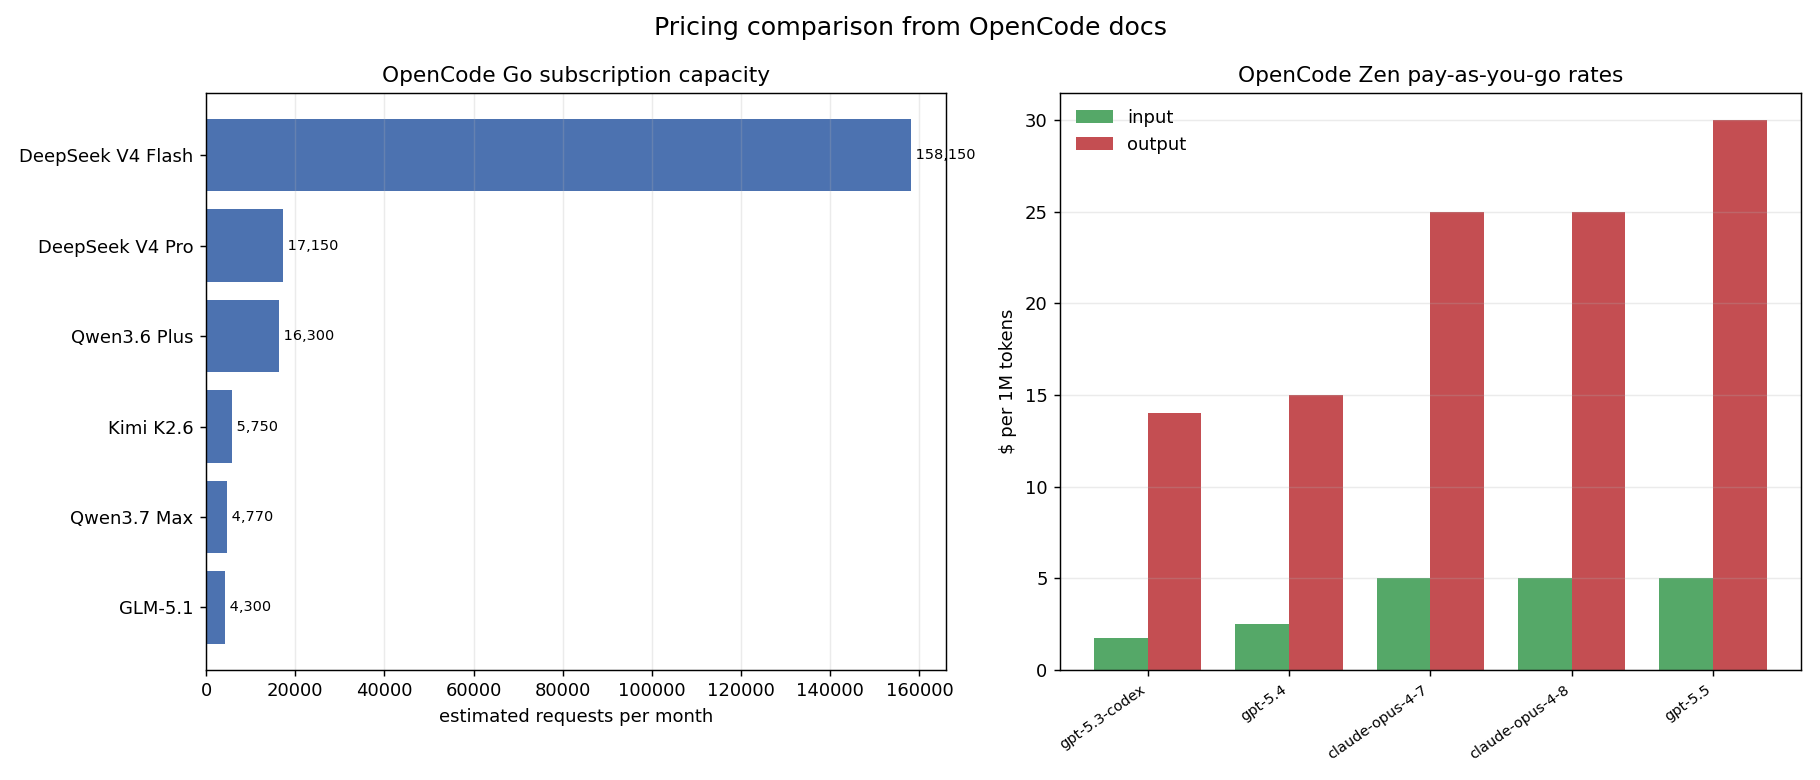
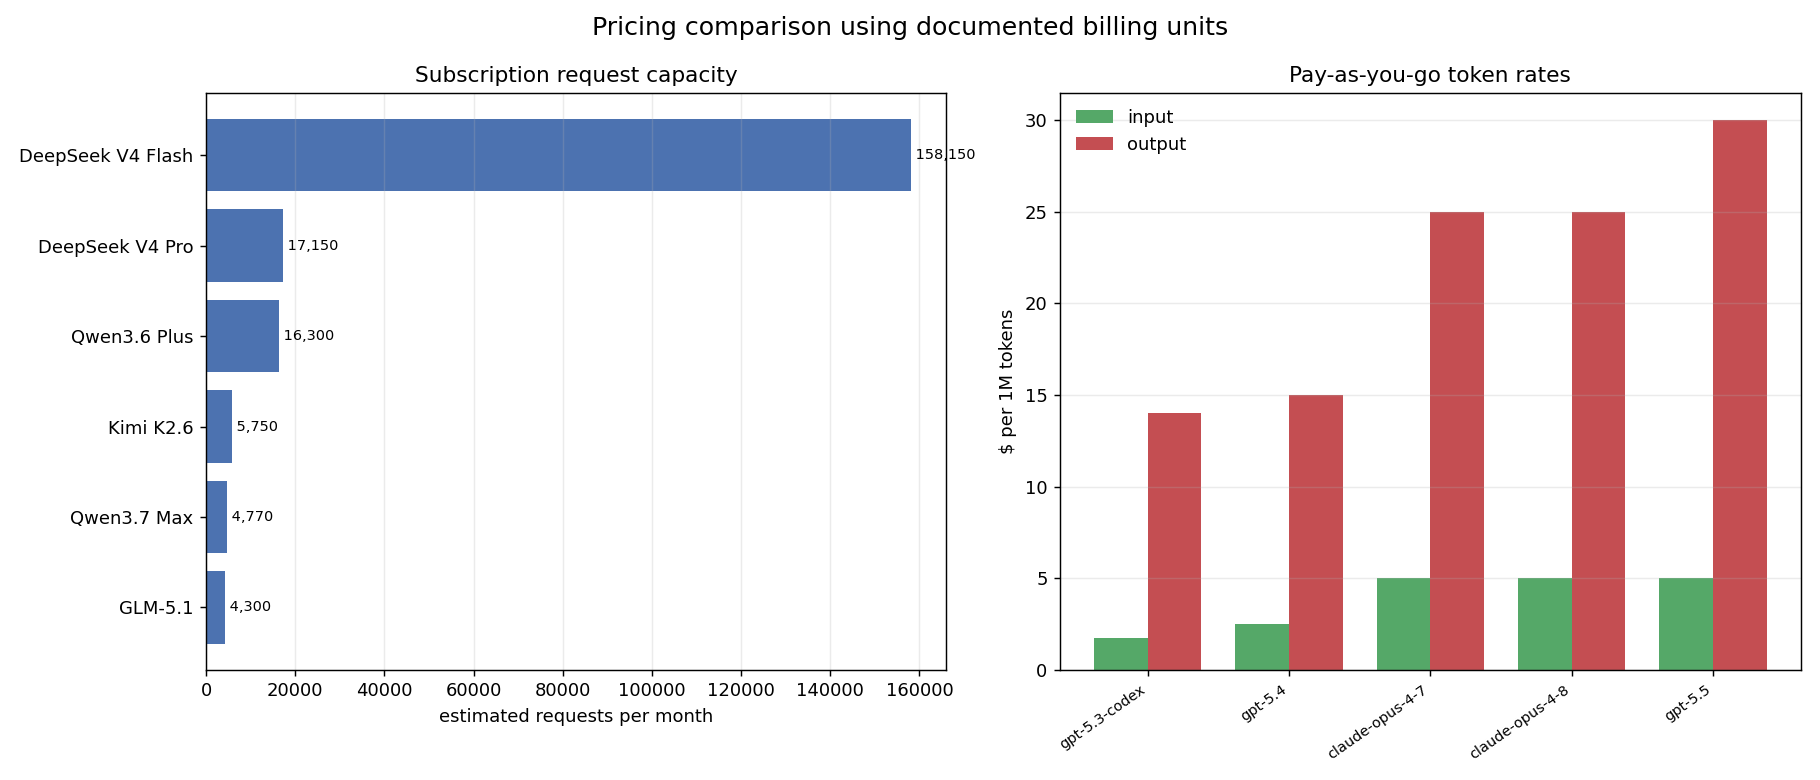
Generalize pricing figure labels

Changed region(s): [[0.3385, 0.0, 0.6769, 0.0615], [0.6769, 0.0615, 0.8923, 0.1231], [0.2154, 0.0923, 0.4308, 0.1231]]

diff --git a/scripts/build_pricing_figure.py b/scripts/build_pricing_figure.py
@@ -1,9 +1,9 @@
 """Build the pricing comparison figure used by reports/main.md.
 
-The values are copied from the OpenCode Go and Zen docs on 2026-05-30.
-Go uses a subscription quota, so the figure reports estimated monthly requests
-inside the documented $60 monthly usage limit. Zen uses pay-as-you-go token
-pricing, so the figure reports input and output dollars per 1M tokens.
+The values are copied from the OpenCode pricing docs on 2026-05-30.
+The figure labels the billing units, not the product routes: one side uses
+estimated monthly requests inside the documented $60 subscription usage limit,
+and the other uses pay-as-you-go input/output dollars per 1M tokens.
 """
 
 from __future__ import annotations
@@ -18,7 +18,7 @@ import matplotlib.pyplot as plt  # noqa: E402
 ROOT = Path(__file__).resolve().parent.parent
 OUT = ROOT / "reports" / "fig_pricing.png"
 
-GO_MONTHLY_REQUESTS = {
+MONTHLY_REQUESTS = {
     "DeepSeek V4 Flash": 158_150,
     "DeepSeek V4 Pro": 17_150,
     "GLM-5.1": 4_300,
@@ -27,7 +27,7 @@ GO_MONTHLY_REQUESTS = {
     "Qwen3.7 Max": 4_770,
 }
 
-ZEN_TOKEN_PRICES = {
+TOKEN_PRICES = {
     "gpt-5.3-codex": (1.75, 14.00),
     "gpt-5.4": (2.50, 15.00),
     "gpt-5.5": (5.00, 30.00),
@@ -37,34 +37,34 @@ ZEN_TOKEN_PRICES = {
 
 
 def main() -> None:
-    fig, (ax_go, ax_zen) = plt.subplots(1, 2, figsize=(14, 6))
+    fig, (ax_requests, ax_tokens) = plt.subplots(1, 2, figsize=(14, 6))
 
-    go_items = sorted(GO_MONTHLY_REQUESTS.items(), key=lambda item: item[1])
-    go_names = [name for name, _ in go_items]
-    go_vals = [value for _, value in go_items]
-    ax_go.barh(go_names, go_vals, color="#4c72b0")
-    ax_go.set_xlabel("estimated requests per month")
-    ax_go.set_title("OpenCode Go subscription capacity")
-    ax_go.grid(axis="x", alpha=0.25)
-    for i, value in enumerate(go_vals):
-        ax_go.text(value, i, f" {value:,}", va="center", fontsize=8)
+    request_items = sorted(MONTHLY_REQUESTS.items(), key=lambda item: item[1])
+    request_names = [name for name, _ in request_items]
+    request_vals = [value for _, value in request_items]
+    ax_requests.barh(request_names, request_vals, color="#4c72b0")
+    ax_requests.set_xlabel("estimated requests per month")
+    ax_requests.set_title("Subscription request capacity")
+    ax_requests.grid(axis="x", alpha=0.25)
+    for i, value in enumerate(request_vals):
+        ax_requests.text(value, i, f" {value:,}", va="center", fontsize=8)
 
-    zen_items = sorted(ZEN_TOKEN_PRICES.items(), key=lambda item: item[1][1])
-    zen_names = [name for name, _ in zen_items]
-    zen_input = [value[0] for _, value in zen_items]
-    zen_output = [value[1] for _, value in zen_items]
-    x = range(len(zen_items))
+    token_items = sorted(TOKEN_PRICES.items(), key=lambda item: item[1][1])
+    token_names = [name for name, _ in token_items]
+    token_input = [value[0] for _, value in token_items]
+    token_output = [value[1] for _, value in token_items]
+    x = range(len(token_items))
     width = 0.38
-    ax_zen.bar([i - width / 2 for i in x], zen_input, width, label="input", color="#55a868")
-    ax_zen.bar([i + width / 2 for i in x], zen_output, width, label="output", color="#c44e52")
-    ax_zen.set_xticks(list(x))
-    ax_zen.set_xticklabels(zen_names, rotation=35, ha="right", fontsize=8)
-    ax_zen.set_ylabel("$ per 1M tokens")
-    ax_zen.set_title("OpenCode Zen pay-as-you-go rates")
-    ax_zen.grid(axis="y", alpha=0.25)
-    ax_zen.legend(frameon=False)
+    ax_tokens.bar([i - width / 2 for i in x], token_input, width, label="input", color="#55a868")
+    ax_tokens.bar([i + width / 2 for i in x], token_output, width, label="output", color="#c44e52")
+    ax_tokens.set_xticks(list(x))
+    ax_tokens.set_xticklabels(token_names, rotation=35, ha="right", fontsize=8)
+    ax_tokens.set_ylabel("$ per 1M tokens")
+    ax_tokens.set_title("Pay-as-you-go token rates")
+    ax_tokens.grid(axis="y", alpha=0.25)
+    ax_tokens.legend(frameon=False)
 
-    fig.suptitle("Pricing comparison from OpenCode docs", fontsize=14)
+    fig.suptitle("Pricing comparison using documented billing units", fontsize=14)
     fig.tight_layout()
     OUT.parent.mkdir(parents=True, exist_ok=True)
     fig.savefig(OUT, dpi=130)

diff --git a/reports/main.md b/reports/main.md
@@ -141,11 +141,11 @@ This matters for an SCA triage pipeline. For high-volume single-shot classificat
 
 Each sample has a hard 600 s `time_limit`. If a run exceeds that limit, it is recorded as *cancelled* rather than scored as incorrect. No deployment was cancelled in this run. The slowest C2 task completed in 68 s.
 
-Figure 7 adds the pricing context from the OpenCode Go and Zen docs. The two panels use different units because the products are billed differently: Go is a subscription with estimated request capacity inside a monthly usage limit, while Zen is pay-as-you-go token pricing. The Go panel therefore reports estimated requests per month under the documented $60 monthly usage limit. The Zen panel reports input and output prices per 1M tokens for the Zen-routed deployments evaluated here.
+Figure 7 adds pricing context using the documented billing units as the calculation base. The two panels use different units because the products are billed differently: one uses subscription request capacity inside a monthly usage limit, and the other uses pay-as-you-go token pricing. The left panel reports estimated requests per month under the documented $60 monthly usage limit. The right panel reports input and output prices per 1M tokens for the evaluated pay-as-you-go deployments.
 
 ![Figure 7](fig_pricing.png)
 
-*Figure 7. Pricing comparison from OpenCode docs: Go monthly request capacity and Zen per-token rates.*
+*Figure 7. Pricing comparison using documented billing units: monthly request capacity and per-token rates.*
 
 ---
 